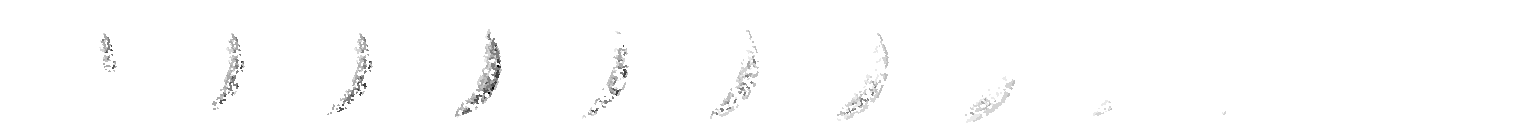
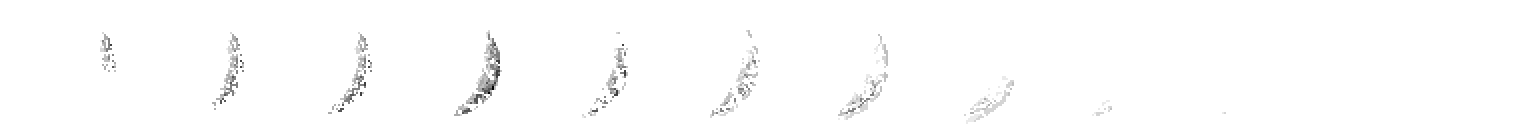
Corte da katana: recorte da estocada como antes, ciano girado na grade 2x2, pendencias de rotacao documentadas

diff --git a/jogos/hordas/fonte_arte/blender_corte/girar_corte.py b/jogos/hordas/fonte_arte/blender_corte/girar_corte.py
@@ -5,6 +5,10 @@ mistura pixels de tamanhos diferentes. Agora o jogo escolhe uma de 16 direcoes (
 graus saem de uma troca exata de UV no shader (efeitos.gd), sem reamostrar. Estes tres arquivos por variante sao os unicos que precisam de
 reamostragem; o 0 grau e a folha original (corte_hazaki_folha.png, a mesma de assets/v2/efeitos/).
 
+Limite conhecido: o quad do corte tem o tamanho do quadro, entao o que o giro leva para fora do quadro (a folha tem conteudo ate ~83 px do
+centro, fora do circulo inscrito de raio 64) e cortado nos giros de 22,5, 45 e 67,5 graus; antes, com o no girado, o quad inteiro girava e
+nada se perdia. O AVISO abaixo lista os quadros afetados. Aceito: a perda e so nos cantos extremos do arco e nao muda o alcance do golpe.
+
 Algoritmo (RotSprite de Xenowhirl): ampliar 8x com Scale2x tres vezes (EPX, so cria cor onde ja existe), girar por vizinho mais proximo
 no quadro ampliado em volta do centro (64, 64), reduzir pegando o pixel do meio de cada bloco 8x8. Sem media, entao as cores e os alfas
 de saida sao um subconjunto dos de entrada.
@@ -27,7 +31,9 @@ SAIDA = os.path.normpath(os.path.join(AQUI, "..", "..", "projeto", "assets", "v2
 QUADRO = 128
 FATOR = 8  # 3 passadas de Scale2x
 PASSOS = (1, 2, 3)  # x 22,5 graus
-VARIANTES = {"corte_hazaki": "corte_hazaki_folha.png", "corte_hazaki_ciano": "corte_hazaki_ciano_folha.png"}
+# (arquivo-fonte, lado do pixel da arte). A ciano e desenhada numa grade 2x2 (cada pixel da arte = bloco 2x2): gira-se a versao reduzida
+# (64x64 por quadro) e amplia-se de volta por repeticao, senao o RotSprite giraria a grade de 2 px como se fosse de 1 px e sairia pixel misto.
+VARIANTES = {"corte_hazaki": ("corte_hazaki_folha.png", 1), "corte_hazaki_ciano": ("corte_hazaki_ciano_folha.png", 2)}
 
 
 def codificar(rgba: np.ndarray) -> np.ndarray:
@@ -76,30 +82,36 @@ def girar_quadro(q: np.ndarray, graus: float) -> np.ndarray:
     return rot[FATOR // 2 :: FATOR, FATOR // 2 :: FATOR]  # o pixel do meio de cada bloco 8x8
 
 
-def processar(nome: str, arq: str) -> None:
+def processar(nome: str, arq: str, bloco: int) -> None:
     im = np.array(Image.open(os.path.join(AQUI, arq)).convert("RGBA"))
     assert im.shape[0] == QUADRO and im.shape[1] % QUADRO == 0, im.shape
     n = im.shape[1] // QUADRO
     cod = codificar(im)
+    quadro = QUADRO // bloco
+    if bloco > 1:
+        peq = cod[::bloco, ::bloco]
+        assert np.array_equal(np.repeat(np.repeat(peq, bloco, axis=0), bloco, axis=1), cod), "a fonte nao e uma grade %dx%d pura" % (bloco, bloco)
+        cod = peq
     # o conteudo precisa caber no circulo inscrito (raio 64): fora dele um giro cortaria o canto
-    ys, xs = np.mgrid[0:QUADRO, 0:QUADRO]
-    fora_circ = ((xs + 0.5 - 64) ** 2 + (ys + 0.5 - 64) ** 2) > 64 * 64
+    ys, xs = np.mgrid[0:quadro, 0:quadro]
+    fora_circ = ((xs + 0.5 - quadro / 2) ** 2 + (ys + 0.5 - quadro / 2) ** 2) > (quadro / 2) ** 2
     for k in range(n):
-        q = cod[:, k * QUADRO : (k + 1) * QUADRO]
+        q = cod[:, k * quadro : (k + 1) * quadro]
         if np.any(q[fora_circ] != 0):
             print("  AVISO: %s quadro %d tem conteudo fora do circulo inscrito (%d px)" % (nome, k, int(np.count_nonzero(q[fora_circ]))))
     cores_ent = set(np.unique(cod).tolist())
     for passo in PASSOS:
         saida = np.zeros_like(cod)
         for k in range(n):
-            saida[:, k * QUADRO : (k + 1) * QUADRO] = girar_quadro(cod[:, k * QUADRO : (k + 1) * QUADRO], passo * 22.5)
+            saida[:, k * quadro : (k + 1) * quadro] = girar_quadro(cod[:, k * quadro : (k + 1) * quadro], passo * 22.5)
         assert set(np.unique(saida).tolist()) <= cores_ent, "cor nova: houve suavizacao"
+        saida = np.repeat(np.repeat(saida, bloco, axis=0), bloco, axis=1)
         destino = os.path.join(SAIDA, "%s_r%d.png" % (nome, passo))
         Image.fromarray(decodificar(saida), "RGBA").save(destino, optimize=True)
-        print("%s: %s (%d quadros, %d cores de entrada, alfa total %d -> %d)" % (nome, os.path.basename(destino), n, len(cores_ent), int((cod & 255).sum()), int((saida & 255).sum())))
+        print("%s: %s (%d quadros, %d cores de entrada, alfa total %d -> %d)" % (nome, os.path.basename(destino), n, len(cores_ent), int((cod & 255).sum()), int((saida & 255).sum()) // (bloco * bloco)))
 
 
 if __name__ == "__main__":
-    for nome, arq in VARIANTES.items():
-        processar(nome, arq)
+    for nome, (arq, bloco) in VARIANTES.items():
+        processar(nome, arq, bloco)
     sys.exit(0)
